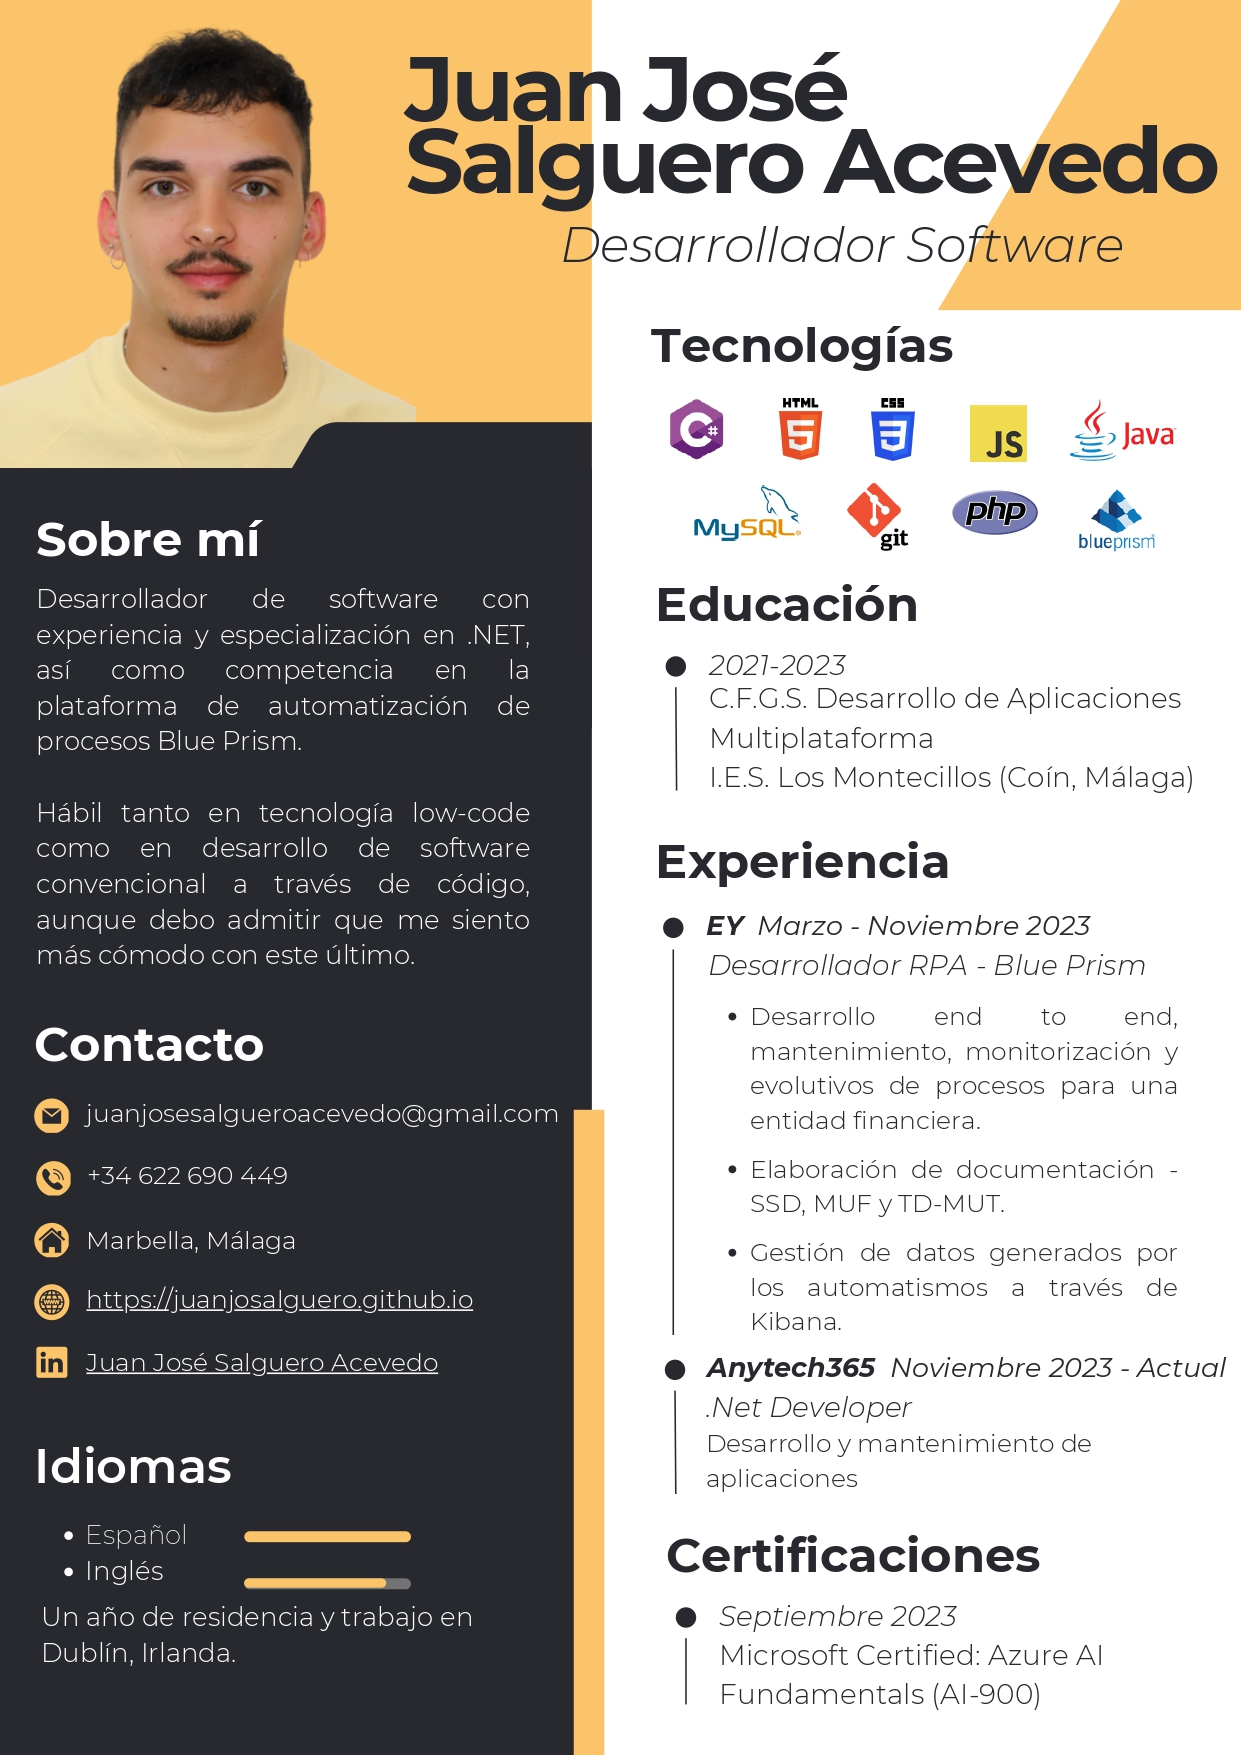
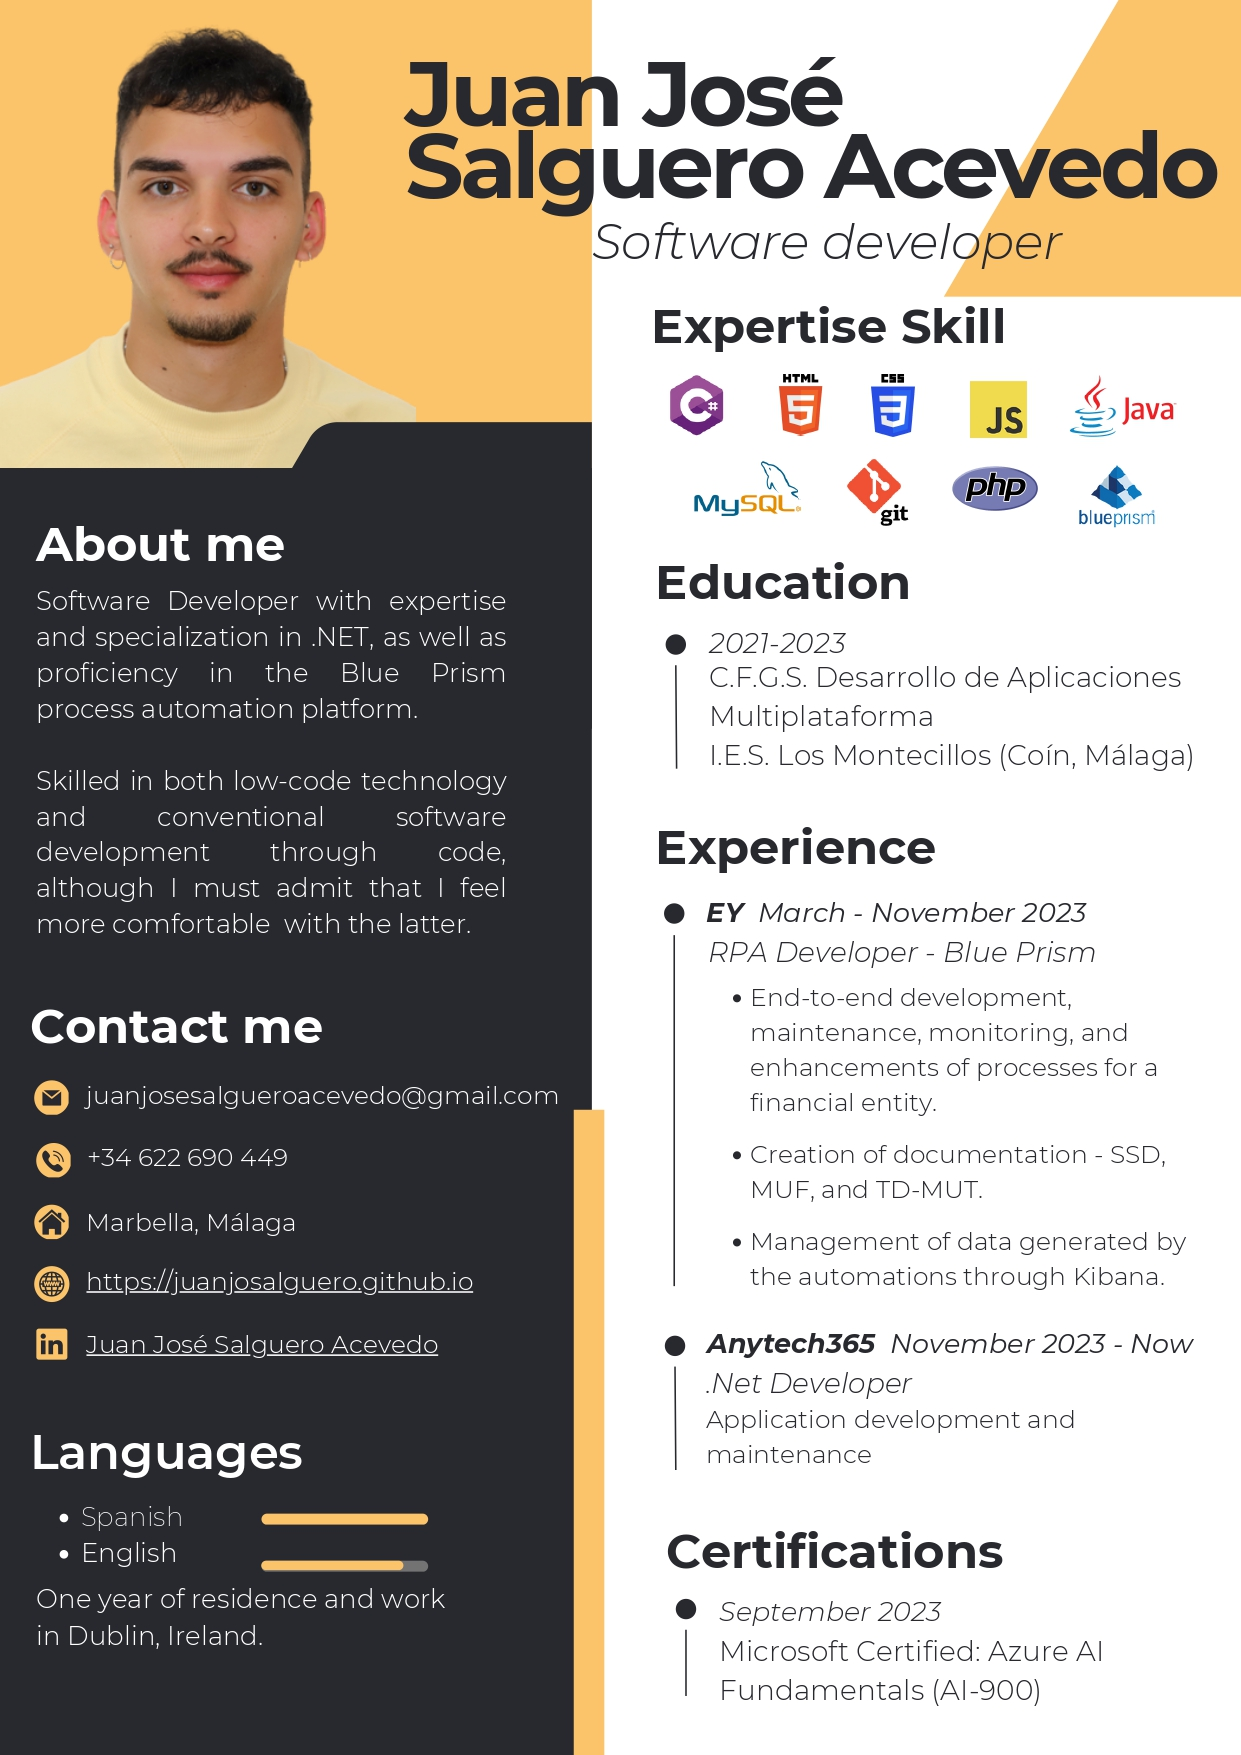
tecnologies and cv modifications

Changed region(s): [[0.3062, 0.0308, 1.0, 0.9846], [0.0306, 0.2769, 0.4593, 0.9538], [0.9186, 0.7692, 0.9799, 0.8]]

diff --git a/index.html b/index.html
@@ -74,10 +74,9 @@
                     Prior to that, I completed another Higher Vocational Training Program in Administration and Finance,
                     and I have approximately four years of work experience in the administration sector.<br><br>
 
-                    Currently, I am a software developer with experience in RPA, specializing in the Blue Prism
-                    automation platform. In addition to working with low-code technology, I have formal training,
-                    extensive knowledge, and a strong interest in conventional software development through
-                    coding.<br><br>
+                    Currently, I am working as .Net software developer Besides being experienced and specialized in
+                    .Net, I also have
+                    experience in RPA (Robotic Proccess Automation), specifically with BluePrism.<br><br>
 
                     One significant experience in my life related to the professional world is the time I spent in
                     Dublin, Ireland. I lived there for a year, which helped me improve my English and gain valuable work
@@ -251,12 +250,6 @@
                     </div>
                     <div class="slide"><img src="https://cdn-icons-png.flaticon.com/512/226/226777.png" alt="java">
                     </div>
-                    <div class="slide"><img src="https://miro.medium.com/max/400/1*9tVpRN7cCovFMavU4PVg2w.png"
-                            alt="javafx"></div>
-                    <div class="slide"><img src="img/blueprism.png" alt="BluePrism"></div>
-                    <div class="slide"><img
-                            src="https://upload.wikimedia.org/wikipedia/commons/thumb/c/c3/Python-logo-notext.svg/1869px-Python-logo-notext.svg.png"
-                            alt="python"></div>
                     <div class="slide"><img src="https://cdn-icons-png.flaticon.com/512/732/732212.png" alt="html"
                             class="html"></div>
                     <div class="slide"><img src="https://seeklogo.com/images/C/css-3-logo-023C1A7171-seeklogo.com.png"
@@ -264,13 +257,18 @@
                     <div class="slide"><img
                             src="https://upload.wikimedia.org/wikipedia/commons/6/6a/JavaScript-logo.png"
                             alt="javascript"></div>
+                    <div class="slide"><img src="img/php.png" alt="php"></div>
+                        <div class="slide"><img src="https://pngimg.com/uploads/mysql/mysql_PNG23.png" alt="Mysql">
+                        
+                    </div>
+                    <div class="slide"><img src="img/blueprism.png" alt="BluePrism"></div>
                     <div class="slide"><img
                             src="https://cdn.iconscout.com/icon/free/png-256/xml-file-2330558-1950399.png" alt="xml">
                     </div>
                     <div class="slide"><img
                             src="https://cdn1.iconfinder.com/data/icons/logos-and-brands-3/512/205_Markdown_logo_logos-512.png"
                             alt="markdown"></div>
-                    <div class="slide"><img src="https://pngimg.com/uploads/mysql/mysql_PNG23.png" alt="Mysql"></div>
+
                     <div class="slide"><img
                             src="https://www.kyotutechnology.com/wp-content/uploads/2021/06/firebase-2-1-300x300.png"
                             alt="Firebase"></div>
@@ -311,18 +309,13 @@
                             src="https://upload.wikimedia.org/wikipedia/commons/c/c7/Windows_logo_-_2012.png"
                             alt="windows"></div>
                     <div class="slide"><img src="img/linux.png" alt="linux"></div>
+
                     <!-- SEGUNDA PARTE DEL CAROUSEL-->
                     <div class="slide"><img
                             src="https://seeklogo.com/images/C/c-sharp-c-logo-02F17714BA-seeklogo.com.png" alt="c#">
                     </div>
                     <div class="slide"><img src="https://cdn-icons-png.flaticon.com/512/226/226777.png" alt="java">
                     </div>
-                    <div class="slide"><img src="https://miro.medium.com/max/400/1*9tVpRN7cCovFMavU4PVg2w.png"
-                            alt="javafx"></div>
-                    <div class="slide"><img src="img/blueprism.png" alt="BluePrism"></div>
-                    <div class="slide"><img
-                            src="https://upload.wikimedia.org/wikipedia/commons/thumb/c/c3/Python-logo-notext.svg/1869px-Python-logo-notext.svg.png"
-                            alt="python"></div>
                     <div class="slide"><img src="https://cdn-icons-png.flaticon.com/512/732/732212.png" alt="html"
                             class="html"></div>
                     <div class="slide"><img src="https://seeklogo.com/images/C/css-3-logo-023C1A7171-seeklogo.com.png"
@@ -330,13 +323,18 @@
                     <div class="slide"><img
                             src="https://upload.wikimedia.org/wikipedia/commons/6/6a/JavaScript-logo.png"
                             alt="javascript"></div>
+                    <div class="slide"><img src="img/php.png" alt="php">
+                        </div>
+                        <div class="slide"><img src="https://pngimg.com/uploads/mysql/mysql_PNG23.png" alt="Mysql">
+                    </div>
+                    <div class="slide"><img src="img/blueprism.png" alt="BluePrism"></div>
                     <div class="slide"><img
                             src="https://cdn.iconscout.com/icon/free/png-256/xml-file-2330558-1950399.png" alt="xml">
                     </div>
                     <div class="slide"><img
                             src="https://cdn1.iconfinder.com/data/icons/logos-and-brands-3/512/205_Markdown_logo_logos-512.png"
                             alt="markdown"></div>
-                    <div class="slide"><img src="https://pngimg.com/uploads/mysql/mysql_PNG23.png" alt="Mysql"></div>
+
                     <div class="slide"><img
                             src="https://www.kyotutechnology.com/wp-content/uploads/2021/06/firebase-2-1-300x300.png"
                             alt="Firebase"></div>
@@ -370,7 +368,7 @@
                             src="https://upload.wikimedia.org/wikipedia/commons/thumb/a/af/Adobe_Photoshop_CC_icon.svg/1200px-Adobe_Photoshop_CC_icon.svg.png"
                             alt="photoshop"></div>
                     <div class="slide"><img
-                            src="https://cdn.freebiesupply.com/logos/large/2x/elastic-kibana-logo-png-transparent.png"
+                            src="https://cdn.iconscout.com/icon/free/png-256/free-kibana-3628875-3030015.png"
                             alt="kibana"></div>
                     <div class="slide"><img src="img/jaspersoft.png" alt="jaspersoft"></div>
                     <div class="slide"><img
@@ -391,7 +389,8 @@
                     <div class="cv-div">
                         <img id="myImg" src="img/developer-cv.jpg" alt="Developer CV">
                         <h3>Software Developer</h3>
-                        <p>Software developer with experience in RPA(Robotic Process Automation). Specialized in the Blue Prism process automation platform.</p>
+                        <p>Software developer with experience in RPA(Robotic Process Automation). Specialized in the
+                            Blue Prism process automation platform.</p>
                         <a href="files/JuanjoSalguero_DeveloperCV.pdf" download="JuanjoSalguero_DeveloperCV"
                             class="button btn-download"><i class="fa-solid fa-download"></i> Download</a>
                     </div>

diff --git a/css/estilos.css b/css/estilos.css
@@ -6,9 +6,9 @@
     --colour-black: #020202;
 
     /* number of "icons" in the carousel */
-    --languages: 27;
+    --languages: 26;
     /* number of "icons" in the carousel * 2 */
-    --languagesx2: 54;
+    --languagesx2: 52;
 }
 
 * {
